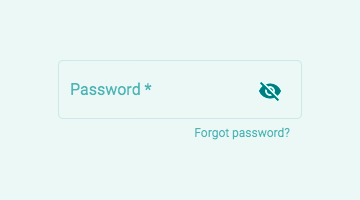
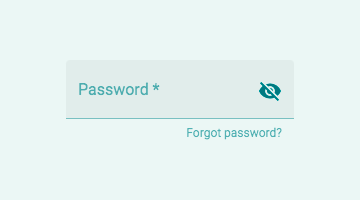
use appearance fill

diff --git a/scenes/src/app/scenes/form-field/form-field-scene.html b/scenes/src/app/scenes/form-field/form-field-scene.html
@@ -1,4 +1,4 @@
-<mat-form-field appearance="outline">
+<mat-form-field appearance="fill">
   <mat-label>Password</mat-label>
   <input matInput type="password" required>
   <mat-hint align="end">Forgot password?</mat-hint>
